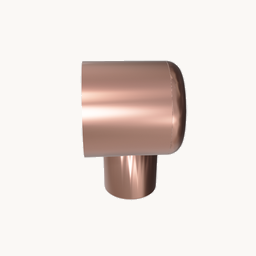
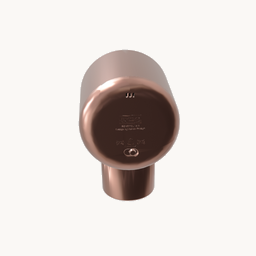
white_pen_cup pose 005; rotate shoe_organizer +90, pink_clock +90; cache-bust v22

Changed region(s): [[0.2812, 0.1875, 0.75, 0.8125]]

diff --git a/docs/gallery.html b/docs/gallery.html
@@ -222,7 +222,7 @@
         card.onkeydown = (e) => { if (e.key === 'Enter') go(); };
 
         const thumb = obj.thumb
-          ? `<img src="objects/${obj.id}/thumb.png?v=21" alt="${escapeHtml(obj.label)}" loading="lazy" onerror="this.parentElement.innerHTML='<div class=placeholder>&#9645;</div>'">`
+          ? `<img src="objects/${obj.id}/thumb.png?v=22" alt="${escapeHtml(obj.label)}" loading="lazy" onerror="this.parentElement.innerHTML='<div class=placeholder>&#9645;</div>'">`
           : '<div class="placeholder">&#9645;</div>';
         card.innerHTML = `
           <div class="frame">${thumb}</div>

diff --git a/wiki/gallery.html b/wiki/gallery.html
@@ -222,7 +222,7 @@
         card.onkeydown = (e) => { if (e.key === 'Enter') go(); };
 
         const thumb = obj.thumb
-          ? `<img src="objects/${obj.id}/thumb.png?v=21" alt="${escapeHtml(obj.label)}" loading="lazy" onerror="this.parentElement.innerHTML='<div class=placeholder>&#9645;</div>'">`
+          ? `<img src="objects/${obj.id}/thumb.png?v=22" alt="${escapeHtml(obj.label)}" loading="lazy" onerror="this.parentElement.innerHTML='<div class=placeholder>&#9645;</div>'">`
           : '<div class="placeholder">&#9645;</div>';
         card.innerHTML = `
           <div class="frame">${thumb}</div>

diff --git a/wiki/render_thumbnails.py b/wiki/render_thumbnails.py
@@ -11,7 +11,6 @@ square thumbnail on a flat background. Supersampled then downscaled for clean AA
 """
 
 import argparse
-import json
 import os
 import sys
 import traceback
@@ -22,63 +21,13 @@ from PIL import Image, ImageDraw
 
 sys.path.insert(0, os.path.dirname(os.path.dirname(os.path.abspath(__file__))))
 from object_processing.visualization import render as R
+from object_processing.visualization.poses import teaser_pose
 
 _VIEW_DIR = np.array([0.65, -1.0, 0.55])   # match render.py's 3/4 view
 
-# Per-object pose override: use a specific tabletop pose (.npy filename stem in
-# processed_data/info/tabletop/) instead of the auto-selected tallest pose.
-POSE_OVERRIDE = {
-    "blue_alarm": "000",   # stands the clock up on its legs (vs 011 lying flat)
-    "apple": "004",
-    "baby_beaker": "033",
-    "beige_brush": "000",
-    "colander_green": "000",
-    "blue_vase": "003",
-    "box_pink": "002",
-    "brass_pot": "017",
-    "brown_ramen": "003",
-    "container_pink": "005",
-    "french_mustard": "002",   # 025 was an impossible resting pose
-    "frog_bowl": "000",
-    "frog_cup": "002",         # 019 was an impossible resting pose
-    "fruit_cutter_base": "004",
-    "fruit_cutter_green": "001",   # 009/010/019 were impossible poses
-    "fruit_cutter_light_green": "000",   # 010/028/001 were impossible poses
-    "green_attached_container": "008",
-    "green_lamp": "001",
-    "green_soap_dispenser": "002",
-    "icecream_scoop": "000",   # 002 was a duplicate pose
-    "large_peg": "002",        # 017 was an impossible pose
-    "lemon_squeezer": "003",
-    "light_green_basket": "001",
-    "open_box": "002",
-    "organizer_beige": "001",
-    "pastel_blue_cup": "000",
-    "mug_holder": "009",
-    "jja_ramen": "000",
-    "pink_clock": "012",
-    "paper_bowl": "001",
-    "paper_cup": "025",
-    "pepper_tuna": "019",
-    "pepper_tuna_light": "010",
-    "yellow_plastic_cup": "001",
-    "wood_tray_big": "001",
-    "wood_tray_small": "002",
-    "soaptray": "001",
-    "standing_frame": "030",   # 034/017 were impossible resting poses
-    "yellow_funnel": "001",
-    "plant_pot": "001",
-    "toothbrush_holder": "024",   # 001 was an impossible resting pose
-    "white_plastic_box": "001",
-    "white_soap_dish": "002",
-    "white_table_lamp": "012",    # 035 was an impossible resting pose
-    "white_watering_can": "000",  # 004 was impossible; no truly upright pose exists, 000 is the best of {000,009,018}
-    "magazine_file": "007",
-    "shoe_organizer": "006",
-    "smallbowl": "000",
-    "spam_can": "006",
-    "wateringcan": "003",
-}
+# Per-object pose override (the curated 'teaser' pose) lives in
+# object_processing.visualization.poses.POSE_OVERRIDE — the single source of
+# truth shared with the overlay figure and the web viewer (via teaser_pose()).
 
 # Per-object camera-direction override (object frame, +z up), for objects whose
 # default 3/4 view faces an uninteresting side.
@@ -103,7 +52,7 @@ VIEW_OVERRIDE = {
     "work_lamp": np.array([1.0, 0.65, 0.55]),            # 90deg from default (270 + 180 relative)
     "green_cactus_vase": np.array([0.167, -1.181, 0.55]),  # 335deg from default (45 + 290 relative)
     "box_pink": np.array([1.0, 0.65, 0.55]),             # 90deg from default (270 + 180 relative)
-    "pink_clock": np.array([-0.953, 0.717, 0.55]),       # 200deg from default (335 + 225 relative)
+    "pink_clock": np.array([-0.717, -0.953, 0.55]),      # 290deg from default (200 + 90 relative)
     "screwdriver": np.array([-0.269, 1.162, 0.55]),      # 160deg from default (45 + 115 relative)
     "potato_mesher": np.array([0.247, 1.167, 0.55]),     # default view rotated 135deg about +z
     "thermo_clock": np.array([-1.0, -0.65, 0.55]),       # 270deg from default (180 + 90 relative)
@@ -112,28 +61,8 @@ VIEW_OVERRIDE = {
     "knife_sharpner": np.array([1.063, -0.541, 0.55]),   # 30deg from default (70 - 40 relative)
     "white_soap_dish": np.array([1.0, 0.65, 0.55]),      # 90deg from default (270 + 180 relative)
     "soaptray": np.array([1.0, 0.65, 0.55]),             # default view rotated 90deg about +z
+    "shoe_organizer": np.array([1.0, 0.65, 0.55]),       # default view rotated 90deg about +z
 }
-
-
-def standing_transform(info):
-    """4x4 object->table transform for the most-upright stable pose, or None."""
-    poses, obb = info.get("tabletop_poses"), info.get("obb")
-    if not poses or not obb:
-        return None
-    e = obb["extents"]
-    T = np.array(obb["transform"])
-    hx, hy, hz = e[0] / 2, e[1] / 2, e[2] / 2
-    local = np.array([[sx * hx, sy * hy, sz * hz, 1.0]
-                      for sx in (-1, 1) for sy in (-1, 1) for sz in (-1, 1)]).T
-    cobj = T @ local
-    best, best_h = None, -1e9
-    for pose in poses:
-        P = np.array(pose)
-        w = P @ cobj
-        h = w[2].max() - w[2].min()
-        if h > best_h:
-            best_h, best = h, P
-    return best
 
 
 def render_thumb(o3d, obj_path, P, size, bg_rgb, view_dir=_VIEW_DIR, base_color=(0.85, 0.86, 0.88)):
@@ -217,7 +146,6 @@ def main():
     ap.add_argument("object_root")
     ap.add_argument("output", help="dir; writes <output>/objects/<name>/thumb.png")
     ap.add_argument("--only", help="comma-separated object names")
-    ap.add_argument("--info-root", default="docs", help="where objects/<name>/info.json live")
     ap.add_argument("--glb-root", default="wiki/output/objects",
                     help="prefer GLB meshes here (fixed normals; no see-through on hollow objects)")
     ap.add_argument("--bg", default="faf8f5", help="background hex (no #), default = page cream")
@@ -250,14 +178,7 @@ def main():
                     if not cands:
                         raise FileNotFoundError("no GLB and no .obj in raw_mesh/")
                     obj = os.path.join(base, "raw_mesh", cands[0])
-            if name in POSE_OVERRIDE:
-                P = np.load(os.path.join(base, "processed_data", "info", "tabletop",
-                                         f"{POSE_OVERRIDE[name]}.npy"))
-            else:
-                P = None
-                info_path = os.path.join(args.info_root, "objects", name, "info.json")
-                if os.path.exists(info_path):
-                    P = standing_transform(json.load(open(info_path)))
+            P = teaser_pose(name, base)
             img = render_thumb(o3d, obj, P, args.size * args.ss, bg,
                                view_dir=VIEW_OVERRIDE.get(name, _VIEW_DIR))
             thumb = Image.fromarray(img).resize((args.size, args.size), Image.LANCZOS)

diff --git a/object_processing/visualization/poses.py b/object_processing/visualization/poses.py
@@ -1,0 +1,124 @@
+"""Curated 'teaser' tabletop pose per object — the single source of truth.
+
+The pipeline emits several stable tabletop poses per object. The tallest one is a
+sensible default 'hero' shot, but for some objects that pose is a near-duplicate,
+a physically implausible resting pose, or simply an uninteresting side. For those
+objects ``POSE_OVERRIDE`` pins a hand-picked tabletop pose (the ``.npy`` filename
+stem under ``processed_data/info/tabletop/``).
+
+This module is shared by everything that needs the same pose:
+- the thumbnail renderer (``wiki/render_thumbnails.py``),
+- the overlay figure (``render.render_overlays_figure``),
+- the web viewer, via ``display_pose`` written into ``info.json`` by
+  ``webexport.export_web_info``.
+
+Only numpy / stdlib are imported here so it stays import-cheap (no Open3D).
+"""
+
+import glob
+import json
+import os
+
+import numpy as np
+
+# Per-object pose override: use this specific tabletop pose (.npy stem in
+# processed_data/info/tabletop/) instead of the auto-selected tallest pose.
+POSE_OVERRIDE = {
+    "blue_alarm": "000",   # stands the clock up on its legs (vs 011 lying flat)
+    "apple": "004",
+    "baby_beaker": "033",
+    "beige_brush": "000",
+    "colander_green": "000",
+    "blue_vase": "003",
+    "box_pink": "002",
+    "brass_pot": "017",
+    "brown_ramen": "003",
+    "container_pink": "005",
+    "french_mustard": "002",   # 025 was an impossible resting pose
+    "frog_bowl": "000",
+    "frog_cup": "002",         # 019 was an impossible resting pose
+    "fruit_cutter_base": "004",
+    "fruit_cutter_green": "001",   # 009/010/019 were impossible poses
+    "fruit_cutter_light_green": "000",   # 010/028/001 were impossible poses
+    "green_attached_container": "008",
+    "green_lamp": "001",
+    "green_soap_dispenser": "002",
+    "icecream_scoop": "000",   # 002 was a duplicate pose
+    "large_peg": "002",        # 017 was an impossible pose
+    "lemon_squeezer": "003",
+    "light_green_basket": "001",
+    "open_box": "002",
+    "organizer_beige": "001",
+    "pastel_blue_cup": "000",
+    "mug_holder": "009",
+    "jja_ramen": "000",
+    "pink_clock": "012",
+    "paper_bowl": "001",
+    "paper_cup": "025",
+    "pepper_tuna": "019",
+    "pepper_tuna_light": "010",
+    "yellow_plastic_cup": "001",
+    "wood_tray_big": "001",
+    "wood_tray_small": "002",
+    "soaptray": "001",
+    "standing_frame": "030",   # 034/017 were impossible resting poses
+    "yellow_funnel": "001",
+    "plant_pot": "001",
+    "toothbrush_holder": "024",   # 001 was an impossible resting pose
+    "white_plastic_box": "001",
+    "white_soap_dish": "002",
+    "white_table_lamp": "012",    # 035 was an impossible resting pose
+    "white_watering_can": "000",  # 004 was impossible; no truly upright pose exists, 000 is the best of {000,009,018}
+    "magazine_file": "007",
+    "shoe_organizer": "006",
+    "smallbowl": "000",
+    "spam_can": "006",
+    "wateringcan": "003",
+    "white_pen_cup": "005",
+}
+
+
+def _tallest_pose(poses, obb):
+    """4x4 object->table for the most-upright stable pose (largest z-extent of
+    the OBB after resting), or None. ``poses`` is a list of 4x4 array-likes;
+    ``obb`` is ``{"extents": [...], "transform": [[...]]}``."""
+    if not poses or not obb:
+        return None
+    e = obb["extents"]
+    T = np.asarray(obb["transform"])
+    hx, hy, hz = e[0] / 2, e[1] / 2, e[2] / 2
+    local = np.array([[sx * hx, sy * hy, sz * hz, 1.0]
+                      for sx in (-1, 1) for sy in (-1, 1) for sz in (-1, 1)]).T
+    cobj = T @ local
+    best, best_h = None, -1e9
+    for pose in poses:
+        P = np.asarray(pose)
+        w = P @ cobj
+        h = w[2].max() - w[2].min()
+        if h > best_h:
+            best_h, best = h, P
+    return best
+
+
+def teaser_pose(obj_name, base):
+    """Return the 4x4 object->table 'teaser' pose for ``obj_name`` as an
+    ``np.ndarray``, or ``None`` if the object has no tabletop poses.
+
+    Uses the curated ``POSE_OVERRIDE`` pose if listed, otherwise the tallest
+    stable pose. ``base`` is the object's source dir
+    (``…/object_processing/<name>``); poses and OBB are read from
+    ``<base>/processed_data/info/``.
+    """
+    info_dir = os.path.join(base, "processed_data", "info")
+    stem = POSE_OVERRIDE.get(obj_name)
+    if stem is not None:
+        return np.load(os.path.join(info_dir, "tabletop", f"{stem}.npy"))
+
+    pose_files = sorted(glob.glob(os.path.join(info_dir, "tabletop", "*.npy")))
+    simp = os.path.join(info_dir, "simplified.json")
+    if not pose_files or not os.path.exists(simp):
+        return None
+    with open(simp) as f:
+        s = json.load(f)
+    obb = {"extents": s["obb"], "transform": s["obb_transform"]}
+    return _tallest_pose([np.load(p) for p in pose_files], obb)
